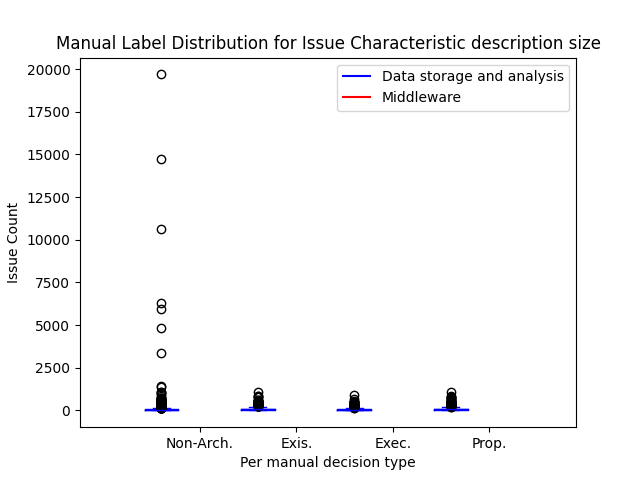
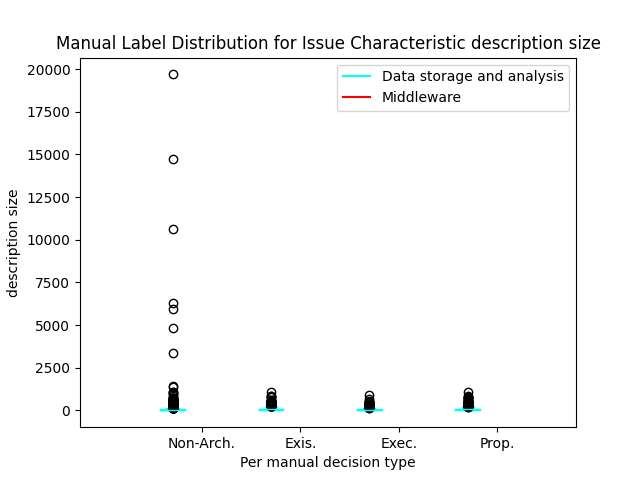
bar graphs

diff --git a/util/charac_analysis/5_statistics.py b/util/charac_analysis/5_statistics.py
@@ -1,6 +1,7 @@
 from matplotlib import pyplot as plt
 import numpy
 import json
+import matplotlib.patches as mpatches
 
 def get_label_str(decisiontype, issue):
     types = {
@@ -35,9 +36,27 @@ def get_label_str(decisiontype, issue):
 def get_simple_bar_data(domain, characteristic, decisiontype):
     with open(f"manual/{domain}.json") as f:
         raw = json.load(f)
+
+    values_condensed = {
+        "resolution": {
+            "Fixed": ["fixed", "implemented", "done", "resolved", "delivered", "rxplained", "information provided"],
+            "Won't Do": ["none", "invalid", "won't fix", "not a problem", "won't do", "not a bug", "auto closed", "works for me", "workaround", "abandoned", "out of date", "obsolete", "rejected"],
+            "Duplicate": ["duplicate", "duplicate issue"],
+            "Deferred": ["later", "deferred"],
+            "Incomplete Data": ["cannot reproduce", "incomplete", "incomplete description"],
+            "In Progress": ["pending closed", "partially completed"]
+        }
+    }
+
     result = {}
     for issue in raw:
         char = str(raw[issue][characteristic])
+        if characteristic in values_condensed:
+            for new_val in values_condensed[characteristic]:
+                if char.lower() in values_condensed[characteristic][new_val]:
+                    char = new_val
+                    break
+        
         if not char in result:
             result[char] = {}
         label = get_label_str(decisiontype, raw[issue])
@@ -65,34 +84,52 @@ def get_simple_box_data(domain, characteristic, decisiontype):
 
 x_labels = ["Non-Arch.", 'Exis.', 'Exec.', 'Prop.']
 domains = ["Data storage and analysis", "Middleware"]
-dom_colors = ["blue", "red"]
+dom_colors = ["cyan", "red"]
+hatch_options = ['/', '+', 'x', 'O', '*', '\\', '.', '-', 'o', '|', '+O', '/O', 'oo', 'x*']
+xticks = []
+for j in range(0, len(x_labels)):
+    for i in range(0, len(domains)):
+        xticks.append((j+1) - 0.3 + i * (0.6/(len(domains)-1)))
+widths = 0.6 / len(domains) - 0.05
 
 def bar_charts():
-    # domains = ['data', 'SOA']
-    # characteristics = ['type', 'resolution', 'status', 'description size', 'duration', 'hierarchy', 'comment avg size', 'comment count']
-
     bar_characs = ['type', 'resolution', 'hierarchy', 'status']
-
+    
     for charac in bar_characs:
-        data = get_simple_bar_data('data', charac, 'manual')
-        for this_char in data:
-
-            labels = list(data[this_char].keys())
-            if len(labels) > 0:
-                fig, ax = plt.subplots()
+        fig, ax = plt.subplots()
+        # for dom in domains:
+        legend_hatches = {}
+        for k in range(0, len(domains)):
+            dom = domains[k]
+            bottoms = [0 for _ in x_labels]
+            data = get_simple_bar_data(dom, charac, 'manual')
+            # for this_char in data:
+            this_chars = list(data.keys())
+            for j in range(0, len(this_chars)):
+                this_char = this_chars[j]
+                labels = list(data[this_char].keys())
+                if len(labels) == 0:
+                    continue
+                
                 for i in range(0, len(x_labels)):
                     this_label = x_labels[i]
                     count = 0
                     if this_label in data[this_char]:
                         count = data[this_char][this_label]
-                    ax.bar(i, count, 0.7, label=this_label)
+                    ax.bar(x=(i+1) - 0.3 + k* (0.6 / (len(domains) - 1)), height=count, width=widths, label=this_label, bottom=bottoms[i], hatch=hatch_options[j], color=dom_colors[k], edgecolor="black")
+                    legend_hatches[this_char] = hatch_options[j]
+                    bottoms[i] += count
 
-                ax.set_ylabel('Issue Count')
-                ax.set_xlabel('Per manual decision type')
-                plt.xticks(range(0, len(x_labels)), x_labels)
-                plt.title(f"Manual Label Distribution for Issue Characteristic {charac}: {this_char}")
-                plt.savefig(f"figures/bar_{charac}_{this_char}.png")
-                plt.close()
+        #legend_hatches = [(x, legend_hatches[x]) for x in legend_hatches]
+        #labels, hatches = zip(*legend_hatches)
+        ax.legend(handles=[mpatches.Patch(facecolor="white", edgecolor='black', hatch=legend_hatches[this_char], label=this_char) for this_char in legend_hatches])
+
+        ax.set_ylabel('Issue Count')
+        ax.set_xlabel('Per manual decision type')
+        plt.xticks([x+1 for x in range(0, len(x_labels))], x_labels)
+        plt.title(f"Manual Label Distribution for Issue Characteristic {charac}")
+        plt.savefig(f"figures/bar_{charac}.png")
+        plt.close()
 
 def box_charts():
     box_characs = ["description size", "duration", "comment avg size", "comment count"]
@@ -111,14 +148,12 @@ def box_charts():
                     counts = data[x_labels[i]]
                 to_plot[dom].append(counts)
 
-        xticks = []
         to_plot_arranged = []
         for j in range(0, len(x_labels)):
             for i in range(0, len(domains)):
-                xticks.append((j+1) - 0.4 + i * (0.8/(len(domains)-1)))
                 to_plot_arranged.append(to_plot[domains[i]][j])
 
-        bp = ax.boxplot(to_plot_arranged, positions=xticks, widths=0.8 / len(domains) - 0.05)
+        bp = ax.boxplot(to_plot_arranged, positions=xticks, widths=widths)
 
         for j in range(0, len(x_labels)):
             for i in range(0, len(domains)):
@@ -137,7 +172,7 @@ def box_charts():
                     plt.setp(bp['fliers'][this_idx*2+1], color=dom_colors[i])
 
         plt.xticks([x+1 for x in range(0, len(x_labels))], x_labels)
-        ax.set_ylabel('Issue Count')
+        ax.set_ylabel(charac)
         ax.set_xlabel('Per manual decision type')
 
         colours = []
@@ -153,4 +188,5 @@ def box_charts():
         plt.savefig(f"figures/box_{charac}.png")
         plt.close()
 
-box_charts()
+bar_charts()
+# box_charts()
